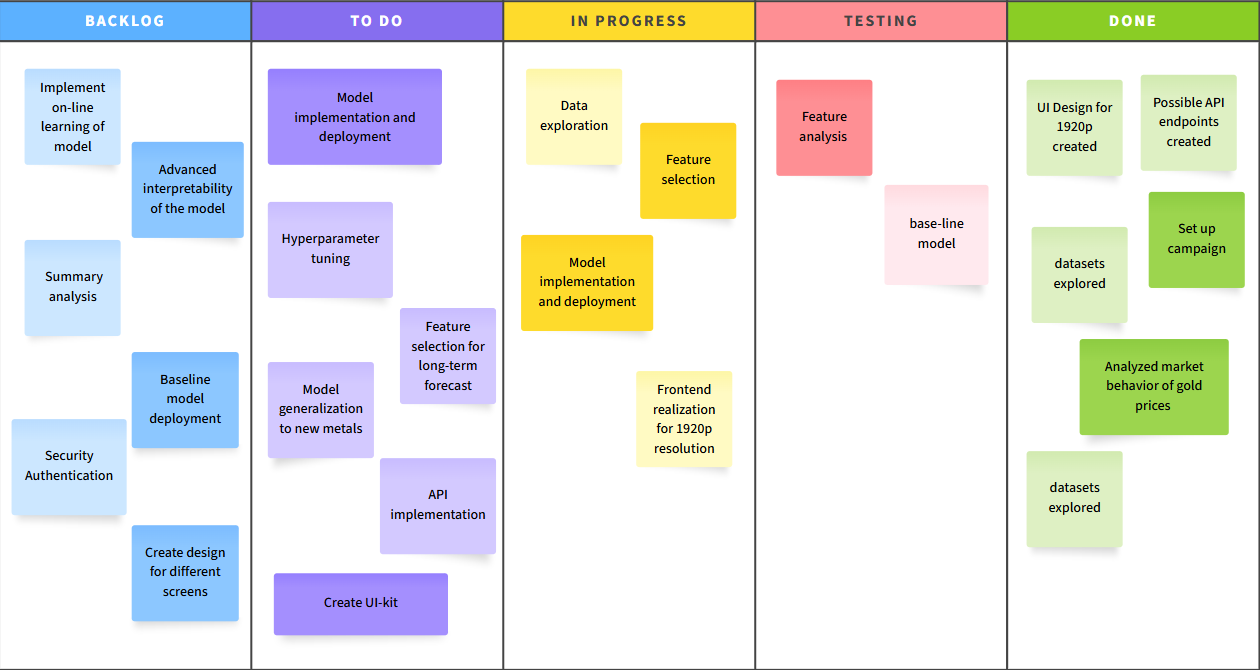
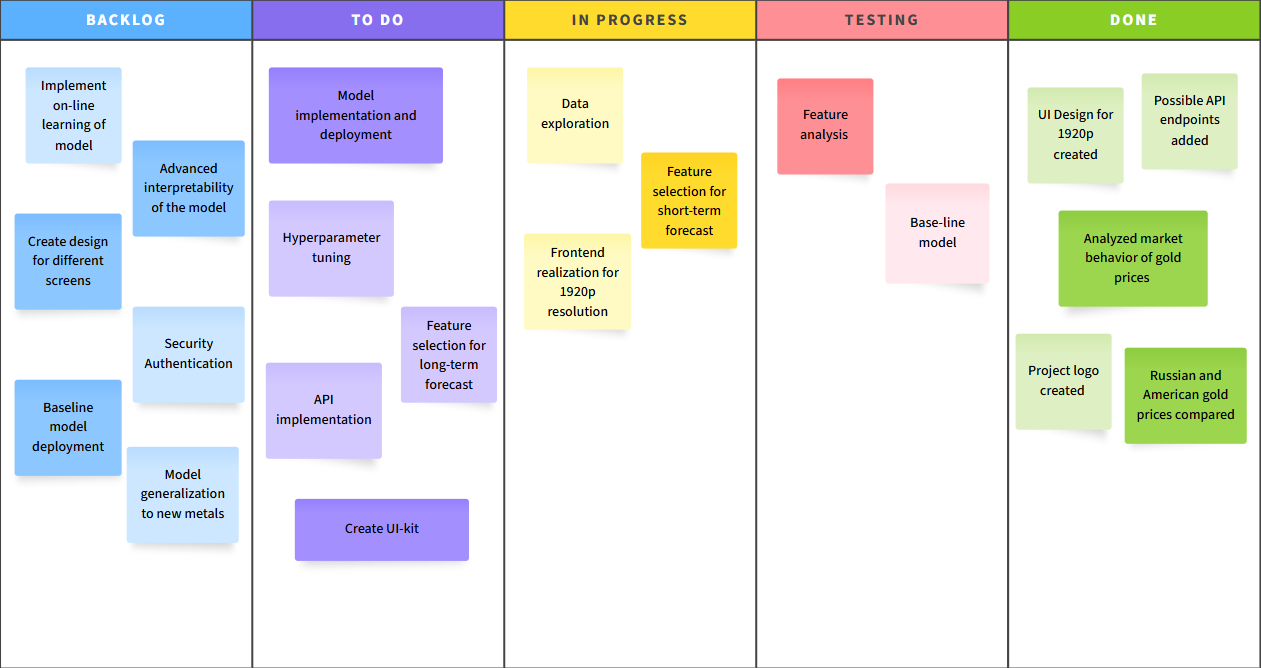
kanban updated, header section implemented in HTML

diff --git a/frontend/index.html b/frontend/index.html
@@ -12,8 +12,8 @@
 </head>
 <body>
     <header class="header">
-        <div class="container">
-            <div class="header__logo flex">
+        <div class="container container-flex">
+            <div class="header__logo block-flex">
                 <svg width="99" height="116" viewBox="0 0 120 140" fill="none" xmlns="http://www.w3.org/2000/svg">
                     <path d="M109.539 7.4274C108.785 8.23405 108.827 9.49967 109.634 10.2543C110.44 11.0088 111.706 10.9666 112.461 10.16L109.539 7.4274ZM119.226 -2.13073e-05L97.1307 6.71723L113.996 22.4939L119.226 -2.13073e-05Z" fill="#D3AC49"/>
                     <path d="M64.1504 51.1929C62.6001 52.7667 62.6191 55.2993 64.1929 56.8496C65.7667 58.3999 68.2993 58.3809 69.8496 56.8071L64.1504 51.1929ZM67 54L69.8496 56.8071L116.5 9.44965L113.65 6.64258L110.801 3.83551L64.1504 51.1929L67 54Z" fill="#D3AC49"/>
@@ -31,25 +31,28 @@
 
                 </div>
             </div>
-        </div>
-        <div class="header__metals">
-            <ul class="header__list">
-                <li class="header__item">
-                    <button class="header__button">
-                    
-                    </button>
-                </li>
-                <li class="header__item">
-                    <button class="header__button">
-                    
-                    </button>
-                </li>
-                <li class="header__item">
-                    <button class="header__button">
-                    
-                    </button>
-                </li>
-            </ul>
+            <div class="header__metals block-flex">
+                <h2 class="header__title">
+                    Metals
+                </h2>
+                <ul class="header__list list-reset list-flex">
+                    <li class="header__item">
+                        <button class="header__button btn-reset">
+                            Aurum
+                        </button>
+                    </li>
+                    <li class="header__item">
+                        <button class="header__button btn-reset">
+                            Ferrum
+                        </button>
+                    </li>
+                    <li class="header__item">
+                        <button class="header__button btn-reset">
+                            Argentum
+                        </button>
+                    </li>
+                </ul>
+            </div>
         </div>
     </header>
     <main class="main">

diff --git a/frontend/css/style.css b/frontend/css/style.css
@@ -3,6 +3,7 @@
     --white: #fff;
     --primary: #242424;
     --dark: #1A1A1A;
+    --main: #D3AC49;
 }
 
 html {
@@ -65,16 +66,57 @@ span {
 }
 
 .container {
-    max-width: 1820px;
+    max-width: 1844px;
     margin: 0 auto;
 	flex-wrap: wrap;
 }
 
-.flex {
-    display: flex;
+/* Header */
+
+.header {
+    padding-top: 8px;
 }
 
-/* Header */
+.header__logo {
+    align-items: center;
+}
+
+.header__logo-text {
+    width: 350px;
+    height: 48px;
+    margin-left: 21px;
+    margin-top: 7px;
+    background: url('../img/logo-text.png') no-repeat;
+    background-size: contain;
+}
+
+.header__metals {
+    width: 840px;
+    margin-left: 40px;
+    flex-direction: column;
+}
+
+.header__title {
+    margin: 0 auto;
+    margin-bottom: 10px;
+    font-size: 48px;
+    color: var(--main);
+    letter-spacing: -0.7px;
+}
+
+.header__item:not(:last-child) {
+    margin-right: auto;
+}
+
+.header__button {
+    width: 220px;
+    min-height: 50px;
+    padding: 3px 6px;
+    background: var(--primary);
+    border-radius: 30px;
+    font-size: 32px;
+    color: var(--white);
+}
 
 /* Main */
 
